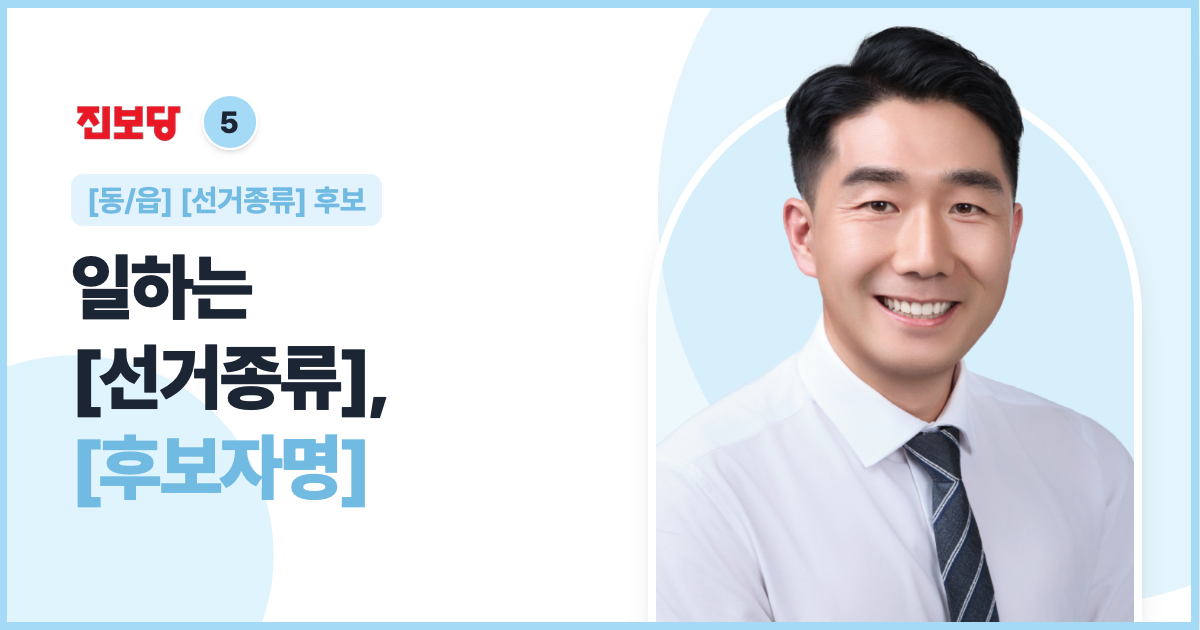
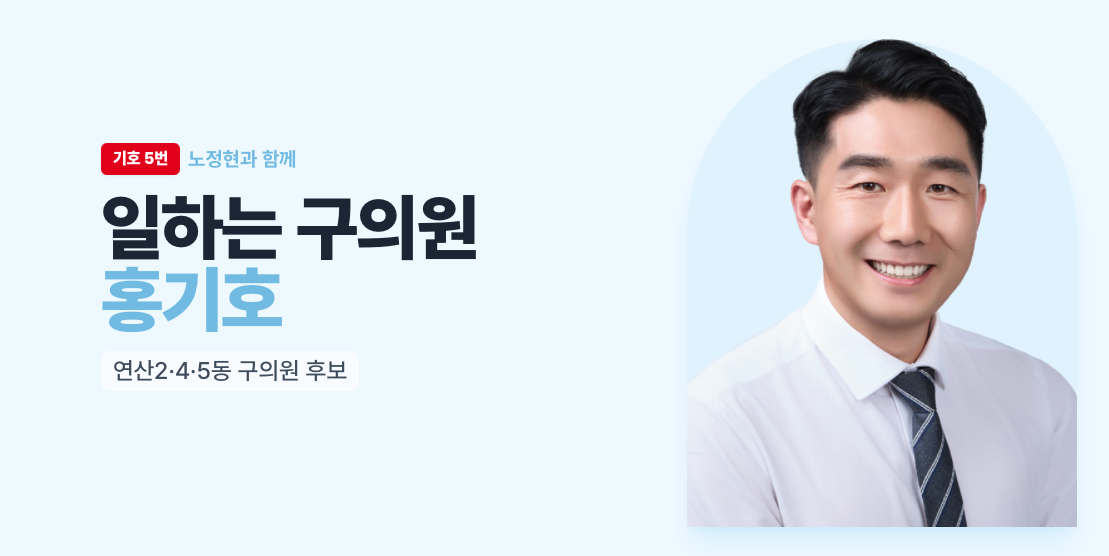
Add files via upload

diff --git a/index.html b/index.html
@@ -3,17 +3,17 @@
 <head>
 <meta charset="UTF-8">
 <meta name="viewport" content="width=device-width, initial-scale=1.0">
-<title>진보당 [후보자명] [동/읍] [선거종류] 후보</title>
-<meta name="description" content="[동/읍] [선거종류] 후보 [후보자명] 공식 홈페이지입니다.">
-<meta property="og:title" content="진보당 [후보자명] [동/읍] [선거종류] 후보">
-<meta property="og:description" content="[동/읍] 주민을 위해 실천하는 일꾼, [후보자명]과 함께해주세요!">
+<title>진보당 홍기호 연산2·4·5동 구의원 후보</title>
+<meta name="description" content="연산2·4·5동 구의원 후보 홍기호 공식 홈페이지입니다.">
+<meta property="og:title" content="진보당 홍기호 연산2·4·5동 구의원 후보">
+<meta property="og:description" content="연산2·4·5동 주민을 위해 실천하는 일꾼, 홍기호와 함께해주세요!">
 <meta property="og:url" content="https://busanjinbo.github.io/yeonjehgh/">
 <meta property="og:image" content="https://busanjinbo.github.io/yeonjehgh/assets/thumbnail.png">
 <meta property="og:type" content="website">
 <!-- Twitter Card 설정 (텔레그램, 트위터 최적화) -->
 <meta name="twitter:card" content="summary_large_image">
-<meta name="twitter:title" content="진보당 [후보자명] [동/읍] [선거종류] 후보">
-<meta name="twitter:description" content="[동/읍] 주민을 위해 실천하는 일꾼, [후보자명]과 함께해주세요!">
+<meta name="twitter:title" content="진보당 홍기호 연산2·4·5동 구의원 후보">
+<meta name="twitter:description" content="연산2·4·5동 주민을 위해 실천하는 일꾼, 홍기호와 함께해주세요!">
 <meta name="twitter:image" content="https://busanjinbo.github.io/yeonjehgh/assets/thumbnail.png">
 <!-- Pretendard 폰트 (고급스럽고 가독성 뛰어남) -->
 <link rel="stylesheet" as="style" crossorigin href="https://cdn.jsdelivr.net/gh/orioncactus/pretendard@v1.3.9/dist/web/static/pretendard.min.css"/>
@@ -82,7 +82,7 @@ html {
 5
 </div>
 <span class="text-xl md:text-2xl font-black tracking-tight text-dark group-hover:text-secondarydark transition-colors">
-[후보자명]
+홍기호
 </span>
 </a>
 <div class="hidden md:flex space-x-6 items-center">
@@ -123,18 +123,18 @@ html {
 </div>
 <!-- 메인 타이틀 -->
 <h1 class="text-4xl sm:text-5xl md:text-6xl lg:text-7xl font-black text-dark leading-tight tracking-tight mb-4 break-keep">
-일하는 [선거종류]<br>
-<span class="text-secondarydark">[후보자명]</span>
+일하는 구의원<br>
+<span class="text-secondarydark">홍기호</span>
 </h1>
 <!-- 서브 설명 -->
 <p class="text-xl md:text-2xl text-graytext font-medium break-keep mb-8 bg-white/60 inline-block px-3 py-1 rounded-lg">
-[동/읍] [선거종류] 후보
+연산2·4·5동 구의원 후보
 </p>
 </div>
 <!-- 우측 후보자 사진 (4:5 아치형 디자인 강제 적용) -->
 <div class="w-10/12 sm:w-1/2 md:w-2/5 flex justify-center mt-12 md:mt-0 relative z-10">
 <!-- 이미지가 4:5 꽉 차는 아치형으로 그려집니다. 배경 여백 문제를 완벽히 해결! -->
-<img src="./assets/profile.png" alt="[후보자명]" class="w-full max-w-[400px] h-auto object-cover rounded-t-full rounded-b-2xl shadow-xl shadow-secondary/30 bg-secondary/20" style="aspect-ratio: 4/5;">
+<img src="./assets/profile.png" alt="홍기호" class="w-full max-w-[400px] h-auto object-cover rounded-t-full rounded-b-2xl shadow-xl shadow-secondary/30 bg-secondary/20" style="aspect-ratio: 4/5;">
 </div>
 </div>
 </header>
@@ -142,24 +142,24 @@ html {
 <section id="donate" class="py-20 md:py-28 bg-white relative">
 <div class="max-w-4xl mx-auto px-4 sm:px-6">
 <div class="text-center mb-10">
-<h2 class="text-4xl md:text-5xl font-black text-dark mb-4 break-keep">[후보자명]에게 힘이 되어주세요.</h2>
+<h2 class="text-4xl md:text-5xl font-black text-dark mb-4 break-keep">홍기호에게 힘이 되어주세요.</h2>
 <div class="w-16 h-1.5 bg-secondary mx-auto mb-6"></div>
 <h3 class="text-xl md:text-2xl text-secondarydark font-bold mb-6 break-keep">
-오직, [동/읍] 주민에게만 빚지고 싶습니다
+오직, 연산2·4·5동 주민에게만 빚지고 싶습니다
 </h3>
 <p class="text-graytext text-lg md:text-xl font-medium space-y-2 break-keep bg-sky-50 py-6 px-4 rounded-xl border border-sky-100">
 <span class="block text-dark font-bold">주민에게 빚져야 주민께 봉사로 갚습니다.</span>
 <span class="block">10만원까지는 연말정산 시 <span class="text-point font-bold">전액 돌려받습니다.</span></span>
-<span class="block">[동/읍] 주민의 후원이 간절합니다.</span>
+<span class="block">연산2·4·5동 주민의 후원이 간절합니다.</span>
 </p>
 </div>
 <!-- 계좌 정보 및 복사 버튼 -->
 <div class="bg-white border-2 border-secondary rounded-2xl p-6 md:p-10 shadow-lg text-center mb-8 relative">
 <div class="flex flex-col sm:flex-row items-center justify-center gap-4 mb-4">
-<span id="account-number" class="text-3xl md:text-4xl font-black text-dark tracking-wider">[후원계좌]</span>
+<span id="account-number" class="text-3xl md:text-4xl font-black text-dark tracking-wider">부산은행 113-2020-3227-00</span>
 </div>
 <p class="text-2xl font-bold text-gray-700 mb-8">
-예금주 : [예금주]
+예금주 : 홍기호후원회(연제구의원선거)
 </p>
 <!-- 빨간색 포인트 컬러 버튼 -->
 <button onclick="copyAccount()" class="inline-flex items-center justify-center gap-2 bg-point text-white text-lg font-bold px-8 py-4 rounded-xl shadow-lg shadow-point/30 hover:bg-red-700 active:scale-95 transition-all w-full sm:w-auto">
@@ -181,7 +181,7 @@ html {
 <li>익명기부는 1회 10만원 이하, 연간 120만원 이하 후원 가능합니다.</li>
 <li class="rounded p-4 bg-sky-50 text-dark border-l-4 border-secondary font-bold">
 영수증 발행 : 이름 / 주민번호 / 전화번호 / 주소 / 후원금액 / 입금일<br>
-<span class="text-xl text-secondarydark break-words cursor-pointer hover:font-black transition-all" onclick="copyPhoneNumber(this.innerText)" title="클릭하여 번호 복사">[대표번호]</span>로 문자 보내주세요
+<span class="text-xl text-secondarydark break-words cursor-pointer hover:font-black transition-all" onclick="copyPhoneNumber(this.innerText)" title="클릭하여 번호 복사">010-4652-6172</span>로 문자 보내주세요
 </li>
 </ul>
 </div>
@@ -193,7 +193,7 @@ html {
 <div class="max-w-5xl mx-auto px-4 sm:px-6">
 <div class="text-center mb-12">
 <h2 class="text-3xl md:text-4xl lg:text-5xl font-black text-dark break-keep tracking-tight">
-[후보자 캐치프레이즈]
+채소집 아들, 싱싱한 정치
 </h2>
 <div class="w-20 h-1.5 bg-secondary mx-auto mt-6 rounded-full"></div>
 </div>
@@ -201,7 +201,7 @@ html {
 <div class="flex flex-col md:flex-row gap-8 items-stretch bg-white rounded-2xl p-6 md:p-8 shadow-sm">
 <!-- 좌측 : 후보자 프로필 (상단과 완벽히 동일한 규격의 4:5 고정 박스) -->
 <div class="w-full md:w-5/12 overflow-hidden flex items-center justify-center">
-<img src="./assets/profile.png" alt="[후보자명] 초상화 프로필" class="w-full h-auto object-cover rounded-2xl shadow-sm border border-gray-100" style="aspect-ratio: 4/5;">
+<img src="./assets/profile.png" alt="홍기호 초상화 프로필" class="w-full h-auto object-cover rounded-2xl shadow-sm border border-gray-100" style="aspect-ratio: 4/5;">
 </div>
 <!-- 우측 : 인사말 및 주요약력 -->
 <div class="w-full md:w-7/12 flex flex-col justify-between space-y-8">
@@ -209,7 +209,7 @@ html {
 <div>
 <h3 class="font-bold text-dark mb-4 text-xl border-l-4 border-secondary pl-3">후보 인사말</h3>
 <p class="text-graytext text-lg leading-relaxed break-keep font-medium bg-gray-50 p-6 rounded-xl border border-gray-100 shadow-sm">
-[인사말]
+우리 거제동은 지난 수년간 많은 성장을 이뤄냈지만, 여전히 교통, 복지, 골목상권 등 세심하게 살펴야 할 숙제들이 남아있습니다. 저는 말보다는 행동으로, 변명보다는 실천으로 증명해 왔습니다. 주민 여러분의 삶의 질을 높이기 위한 진정한 생활정치, 저 홍기호가 약속드립니다.
 </p>
 </div>
 <!-- 약력 리스트 영역 -->
@@ -219,15 +219,23 @@ html {
 <ul class="space-y-3 font-semibold text-gray-800 text-lg">
 <li class="flex items-start">
 <span class="text-secondarydark mr-3 w-4 font-black">·</span>
-<span>[주요약력 내용을 여기에 입력하세요]</span>
+<span>연동초‧연산중‧부산동성고 (졸)</span>
 </li>
 <li class="flex items-start">
 <span class="text-secondarydark mr-3 w-4 font-black">·</span>
-<span>[주요약력 내용을 여기에 입력하세요]</span>
+<span>동의대 사회복지학과 (졸)</span>
 </li>
 <li class="flex items-start">
 <span class="text-secondarydark mr-3 w-4 font-black">·</span>
-<span>[주요약력 내용을 여기에 입력하세요]</span>
+<span>대한민국 자원봉사대상 행정안전부장관 표창 (제7226호)</span>
+</li>
+<li class="flex items-start">
+<span class="text-secondarydark mr-3 w-4 font-black">·</span>
+<span>1급 사회복지사, 교통안전지도사</span>
+</li>
+<li class="flex items-start">
+<span class="text-secondarydark mr-3 w-4 font-black">·</span>
+<span>풀 마라톤 5회 완주(PB 3시간 15분)</span>
 </li>
 </ul>
 </div>
@@ -248,38 +256,36 @@ html {
 <!-- 아이템 1 (제공된 활동사진 1) -->
 <div class="flex flex-col md:flex-row items-center gap-6 md:gap-10">
 <div class="w-full md:w-1/2 rounded-2xl overflow-hidden shadow-sm bg-gray-100 border border-gray-100">
-<img src="./assets/activity1.jpg" alt="[활동사진 1 (./assets/activity1.jpg)]" class="w-full h-auto object-cover aspect-video hover:scale-105 transition-transform duration-500">
+<img src="./assets/activity1.jpg" alt="거제동 자율방범대 야간 순찰 활동" class="w-full h-auto object-cover aspect-video hover:scale-105 transition-transform duration-500">
 </div>
 <div class="w-full md:w-1/2">
 <p class="text-lg text-graytext break-keep leading-relaxed bg-sky-50 px-5 py-6 rounded-xl font-medium border border-sky-100 shadow-sm">
-[관련 글 1 내용]
+거제동 자율방범대 야간 순찰 활동
 </p>
 </div>
 </div>
 <!-- 아이템 2 (제공된 활동사진 2 - PC화면 교차 레이아웃) -->
 <div class="flex flex-col md:flex-row-reverse items-center gap-6 md:gap-10">
 <div class="w-full md:w-1/2 rounded-2xl overflow-hidden shadow-sm bg-gray-100 border border-gray-100">
-<img src="./assets/activity2.jpg" alt="[활동사진 2 (./assets/activity2.jpg)]" class="w-full h-auto object-cover aspect-video hover:scale-105 transition-transform duration-500">
+<img src="./assets/activity2.jpg" alt="어르신 무료 급식 봉사" class="w-full h-auto object-cover aspect-video hover:scale-105 transition-transform duration-500">
 </div>
 <div class="w-full md:w-1/2">
 <p class="text-lg text-graytext break-keep leading-relaxed bg-sky-50 px-5 py-6 rounded-xl font-medium border border-sky-100 shadow-sm">
-[관련 글 2 내용]
+어르신 무료 급식 봉사
 </p>
 </div>
 </div>
-<!-- 추가 시 이 구조를 복사해서 쓰시면 됩니다 -->
-<!--
+<!-- 아이템 3 -->
 <div class="flex flex-col md:flex-row items-center gap-6 md:gap-10">
 <div class="w-full md:w-1/2 rounded-2xl overflow-hidden shadow-sm bg-gray-100 border border-gray-100">
-<img src="./assets/activity3.jpg" alt="[활동사진 3 (./assets/activity3.jpg)]" class="w-full h-auto object-cover aspect-video hover:scale-105 transition-transform duration-500">
+<img src="./assets/activity3.jpg" alt="칼갈이 봉사" class="w-full h-auto object-cover aspect-video hover:scale-105 transition-transform duration-500">
 </div>
 <div class="w-full md:w-1/2">
 <p class="text-lg text-graytext break-keep leading-relaxed bg-sky-50 px-5 py-6 rounded-xl font-medium border border-sky-100 shadow-sm">
-[관련 글 3 내용]
+칼갈이 봉사
 </p>
 </div>
 </div>
--->
 </div>
 </div>
 </section>
@@ -329,11 +335,11 @@ html {
 <footer class="bg-dark text-white pt-10 pb-8 mt-auto">
 <div class="max-w-5xl mx-auto px-4 sm:px-6 text-center">
 <div class="text-gray-400 font-light text-sm md:text-base mb-6 space-y-2">
-<p>진보당 [후보자명] [동/읍] [선거종류] 후보</p>
-<p>전화: <strong class="text-white cursor-pointer hover:text-secondary transition-colors" onclick="copyPhoneNumber(this.innerText)" title="클릭하여 번호 복사">[대표번호]</strong></p>
+<p>진보당 홍기호 연산2·4·5동 구의원 후보</p>
+<p>전화: <strong class="text-white cursor-pointer hover:text-secondary transition-colors" onclick="copyPhoneNumber(this.innerText)" title="클릭하여 번호 복사">010-4652-6172</strong></p>
 </div>
 <div class="text-xs text-gray-500 font-light mt-8">
-&copy;2026 [후보자명] 선거사무소. All rights reserved.
+&copy;2026 홍기호 선거사무소. All rights reserved.
 </div>
 </div>
 </footer>
@@ -343,62 +349,56 @@ html {
 const btn = document.getElementById('mobile-menu-btn');
 const menu = document.getElementById('mobile-menu');
 const mobileLinks = document.querySelectorAll('.mobile-link');
-
 btn.addEventListener('click', () => {
-  menu.classList.toggle('hidden');
+    menu.classList.toggle('hidden');
 });
-
 mobileLinks.forEach(link => {
-  link.addEventListener('click', () => {
-    menu.classList.add('hidden');
-  });
+    link.addEventListener('click', () => {
+        menu.classList.add('hidden');
+    });
 });
-
 // --- 전화번호 복사 로직 ---
 function copyPhoneNumber(numberStr) {
-  const tempElem = document.createElement('textarea');
-  tempElem.value = numberStr;
-  document.body.appendChild(tempElem);
-  tempElem.select();
-  try {
-    document.execCommand('copy');
-    alert('전화번호가 정상적으로 복사되었습니다.');
-  } catch(err) {
-    alert('복사에 실패했습니다. 번호를 직접 복사해주세요.');
-  }
-  document.body.removeChild(tempElem);
+    const tempElem = document.createElement('textarea');
+    tempElem.value = numberStr;
+    document.body.appendChild(tempElem);
+    tempElem.select();
+    try {
+        document.execCommand('copy');
+        alert('전화번호가 정상적으로 복사되었습니다.');
+    } catch(err) {
+        alert('복사에 실패했습니다. 번호를 직접 복사해주세요.');
+    }
+    document.body.removeChild(tempElem);
 }
-
 // --- 계좌번호 복사 로직 ---
 function copyAccount() {
-  const accountText = document.getElementById('account-number').innerText;
-  const tempElem = document.createElement('textarea');
-  tempElem.value = accountText;
-  document.body.appendChild(tempElem);
-  tempElem.select();
-  try {
-    document.execCommand('copy');
-    alert('계좌번호가 정상적으로 복사되었습니다. \n따뜻한 후원에 진심으로 감사드립니다!');
-  } catch(err) {
-    alert('복사에 실패했습니다. 번호를 직접 복사해주세요.');
-  }
-  document.body.removeChild(tempElem);
+    const accountText = document.getElementById('account-number').innerText;
+    const tempElem = document.createElement('textarea');
+    tempElem.value = accountText;
+    document.body.appendChild(tempElem);
+    tempElem.select();
+    try {
+        document.execCommand('copy');
+        alert('계좌번호가 정상적으로 복사되었습니다. \\n따뜻한 후원에 진심으로 감사드립니다!');
+    } catch(err) {
+        alert('복사에 실패했습니다. 번호를 직접 복사해주세요.');
+    }
+    document.body.removeChild(tempElem);
 }
-
 // --- 후원 상세 안내 아코디언 로직 ---
 const donateBtn = document.getElementById('donate-detail-btn');
 const donateContent = document.getElementById('donate-detail-content');
 const donateIcon = document.getElementById('donate-detail-icon');
-
 donateBtn.addEventListener('click', () => {
-  const isClosed = !donateContent.classList.contains('active');
-  if (isClosed) {
-    donateContent.classList.add('active');
-    donateIcon.classList.add('rotate-180');
-  } else {
-    donateContent.classList.remove('active');
-    donateIcon.classList.remove('rotate-180');
-  }
+    const isClosed = !donateContent.classList.contains('active');
+    if(isClosed) {
+        donateContent.classList.add('active');
+        donateIcon.classList.add('rotate-180');
+    } else {
+        donateContent.classList.remove('active');
+        donateIcon.classList.remove('rotate-180');
+    }
 });
 </script>
 </body>
